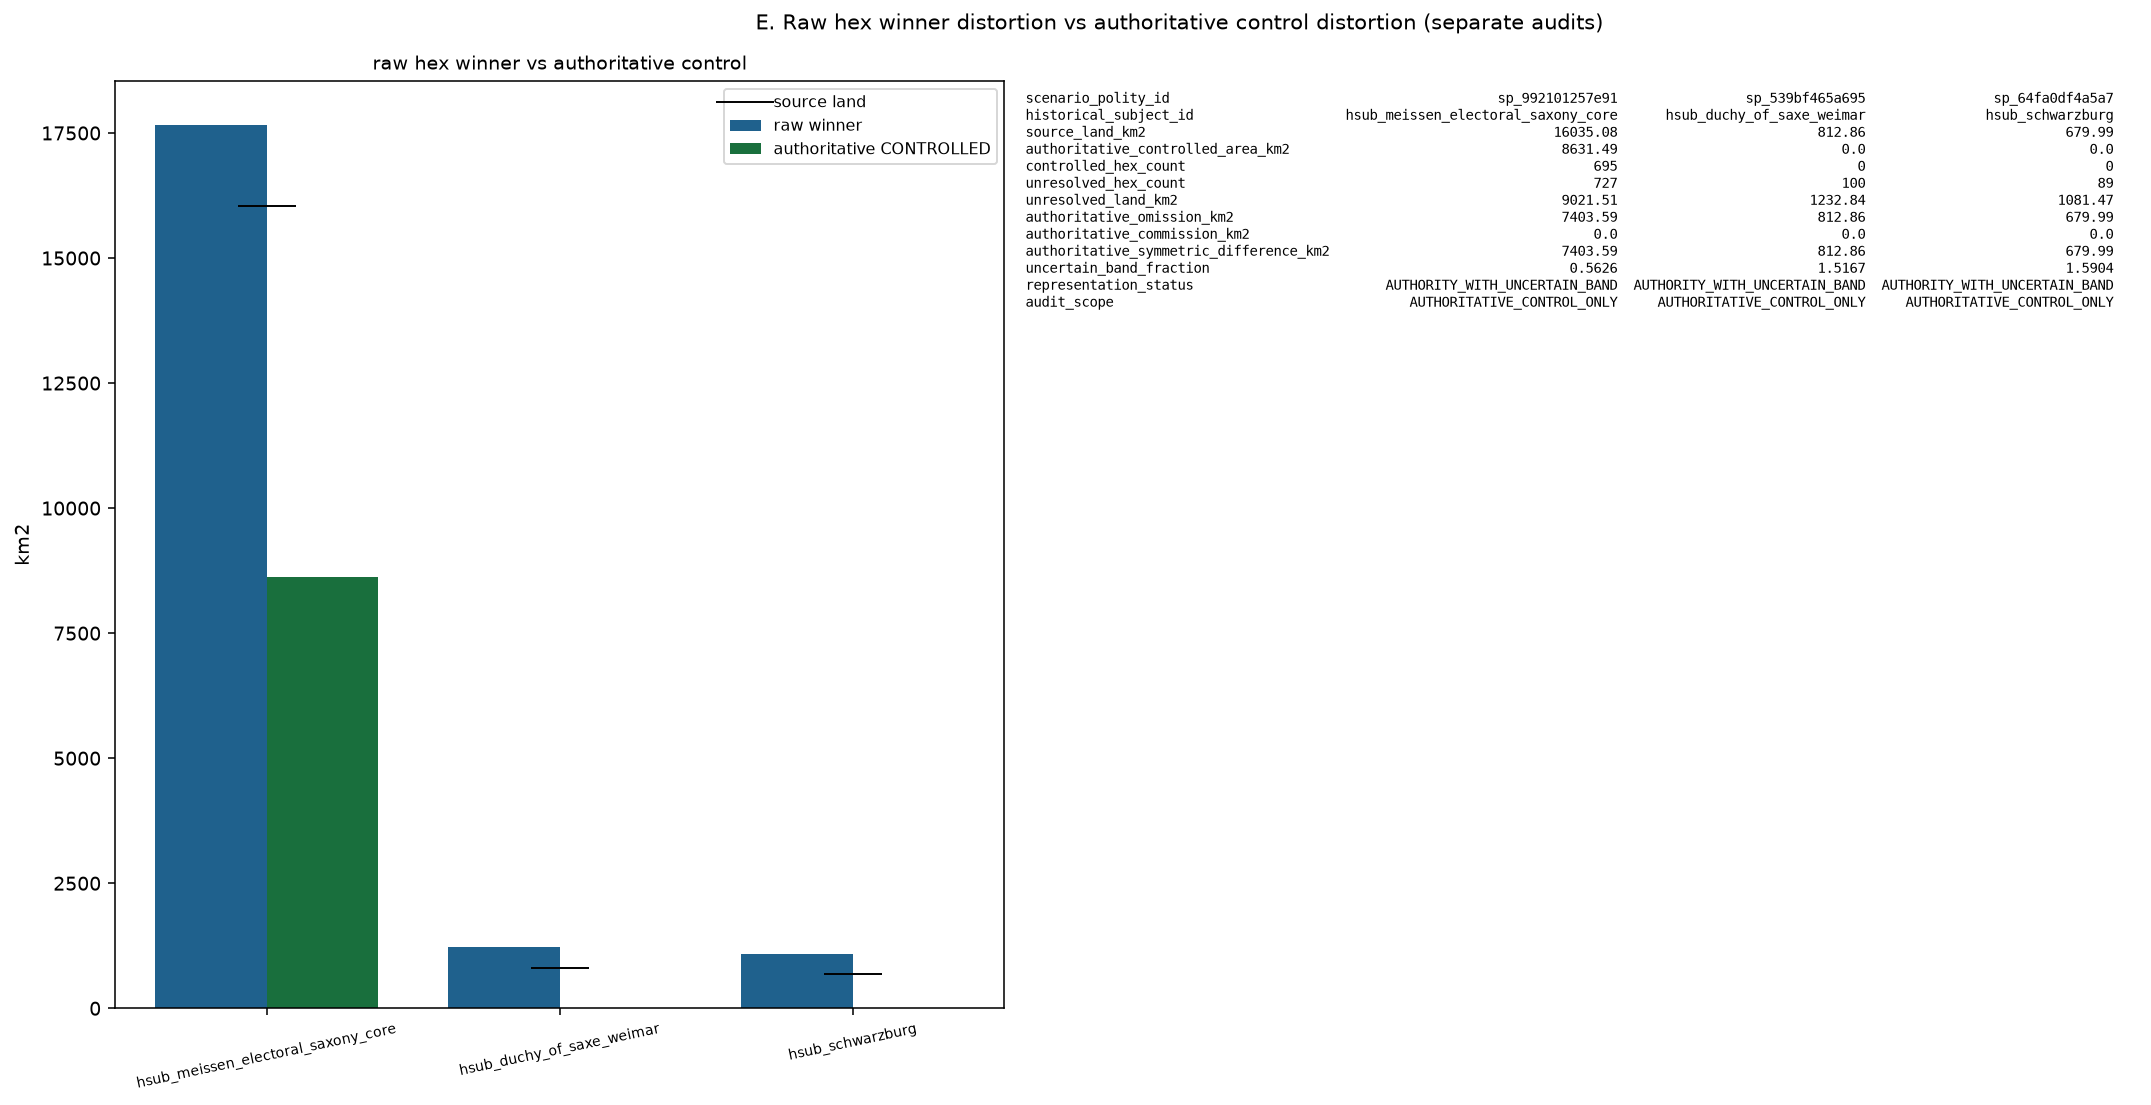
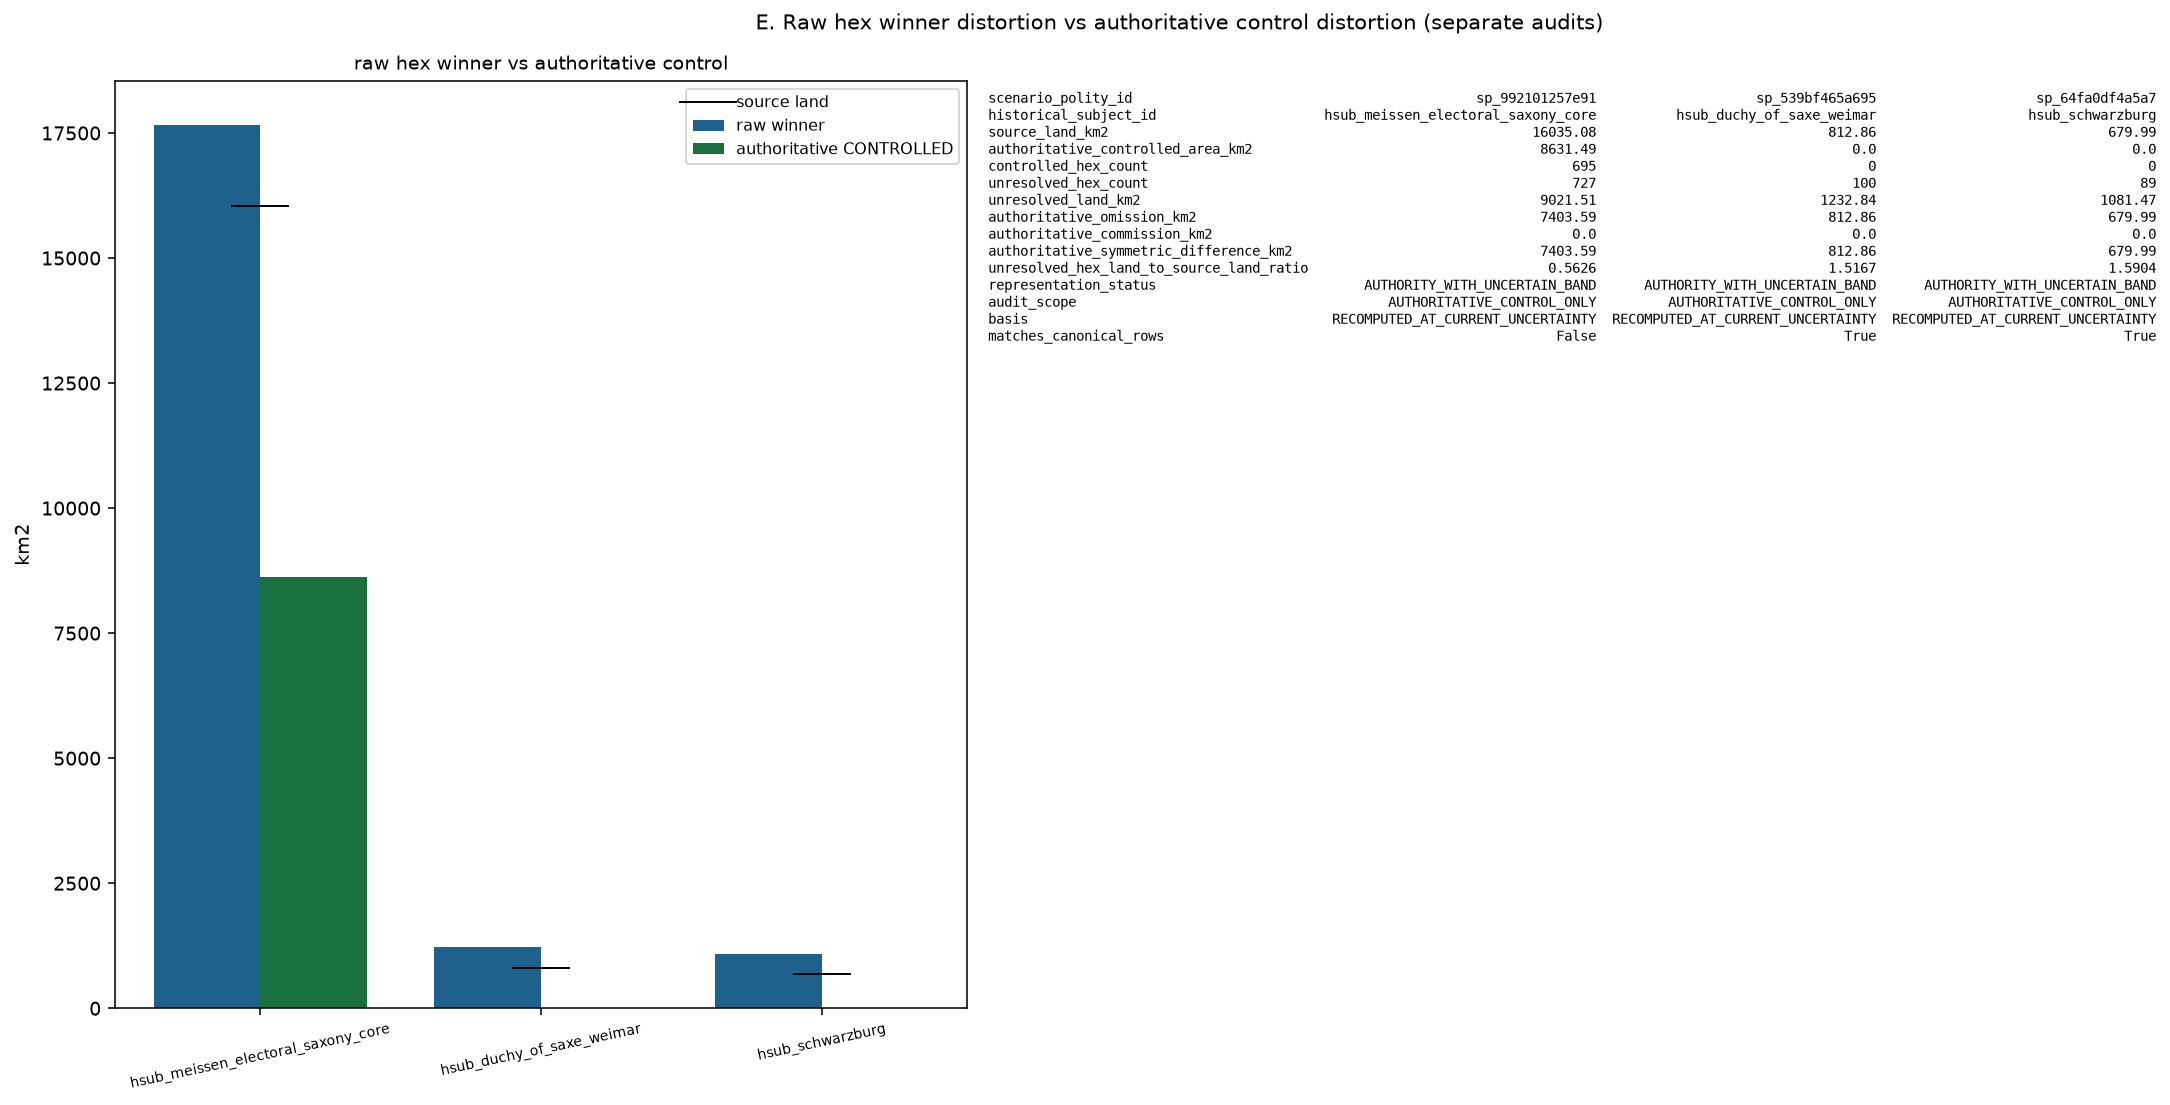
fix(mapgen): clarify authoritative control audit semantics
The audit is measured at the CURRENT 9.168 km uncertainty while the
promoted Saxony rows were classified at 2.975 km, so the two legitimately
disagree. Make that explicit with basis / matches_canonical_rows columns
instead of leaving a reviewer to discover it, and rename the misleading
uncertain_band_fraction: hex land overhangs a small territory, so the
ratio exceeds 1 when every hex is unresolved.

Claude-Session: https://claude.ai/code/session_016h7aQZqBcSyoGGj5v2w3Q6

diff --git a/src/mapgen/historical_pilot_pipeline.py b/src/mapgen/historical_pilot_pipeline.py
@@ -519,12 +519,20 @@ def run_historical_pilot(cfg: MapgenConfig,
             "authoritative_omission_km2": ao,
             "authoritative_commission_km2": ac,
             "authoritative_symmetric_difference_km2": round(ao + ac, 2),
-            "uncertain_band_fraction": round(unres_km2 / src_km2, 4)
-            if src_km2 else None,
+            # Hex land overhangs the territory, so this ratio legitimately
+            # exceeds 1 when every hex of a small polity is unresolved.
+            "unresolved_hex_land_to_source_land_ratio":
+                round(unres_km2 / src_km2, 4) if src_km2 else None,
             "representation_status":
                 "AUTHORITY_WITH_UNCERTAIN_BAND" if len(u)
                 else "AUTHORITY_COMPLETE_WITHIN_FEATURE",
-            "audit_scope": "AUTHORITATIVE_CONTROL_ONLY"})
+            "audit_scope": "AUTHORITATIVE_CONTROL_ONLY",
+            # This audit measures the CURRENT re-measured uncertainty.
+            # For Saxony the canonical rows were promoted under the older
+            # 2.975 km classification, so the two differ on purpose.
+            "basis": "RECOMPUTED_AT_CURRENT_UNCERTAINTY",
+            "matches_canonical_rows":
+                bool(t.scenario_polity_id != saxony_sp)})
     raw_d = pd.DataFrame(raw_rows)
     auth_d = pd.DataFrame(auth_rows)
     pids = sorted(src_by_pol)
@@ -733,10 +741,18 @@ def run_historical_pilot(cfg: MapgenConfig,
            set(auth_d["representation_status"]) <= {
                "AUTHORITY_WITH_UNCERTAIN_BAND",
                "AUTHORITY_COMPLETE_WITHIN_FEATURE"}
-           and auth_d["unresolved_land_km2"].notna().all(),
+           and auth_d["unresolved_land_km2"].notna().all()
+           and auth_d["basis"].eq(
+               "RECOMPUTED_AT_CURRENT_UNCERTAINTY").all()
+           and not bool(auth_d.loc[auth_d["scenario_polity_id"]
+                                   == saxony_sp,
+                                   "matches_canonical_rows"].iloc[0]),
            "representation_status now describes what the authority "
            "actually covers instead of grading raw hexification: "
-           f"{dict(auth_d['representation_status'].value_counts())}")
+           f"{dict(auth_d['representation_status'].value_counts())}. The "
+           "audit is measured at the CURRENT uncertainty, so the Saxony "
+           "row deliberately does not match its canonical (2.975 km) "
+           "classification")
     city = gcps[gcps["reference_type"] == "SETTLEMENT_MODERN_REFERENCE"]
     _check("M13-17_independent_checks_added",
            len(city) >= 4 and (~city["included_in_fit"].astype(bool)).all()

diff --git a/reviews/MAPGEN-013/README_REVIEW.md b/reviews/MAPGEN-013/README_REVIEW.md
@@ -45,7 +45,7 @@ Run `central_europe_1756_expand_20260813`, built on MAPGEN-012 commit `1793ea178
 - `central_europe_1756_multi_polity_continuous.png` (aspect 1.578)
 - `central_europe_1756_multi_polity_hex.png` (aspect 1.504)
 - `central_europe_1756_authoritative_control.png` (aspect 1.504)
-- `raw_vs_authoritative_distortion.png` (aspect 1.947)
+- `raw_vs_authoritative_distortion.png` (aspect 1.964)
 - `polity_model_refinement.png` (aspect 1.703)
 - `canonical_promotion_overview.png` (aspect 2.3)
 
